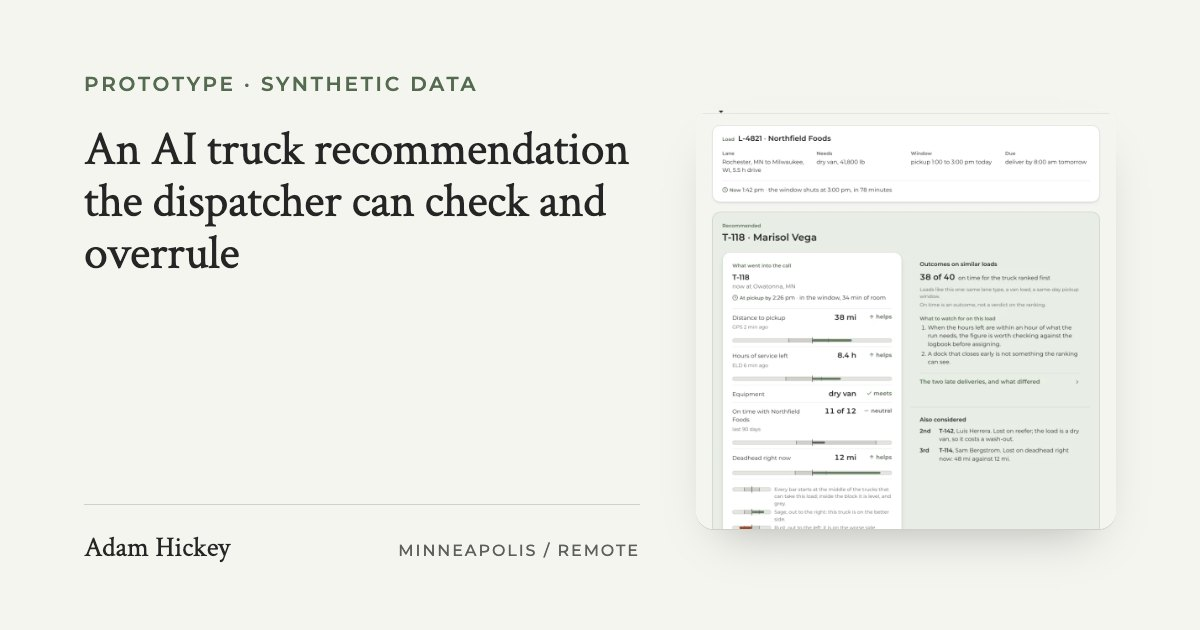
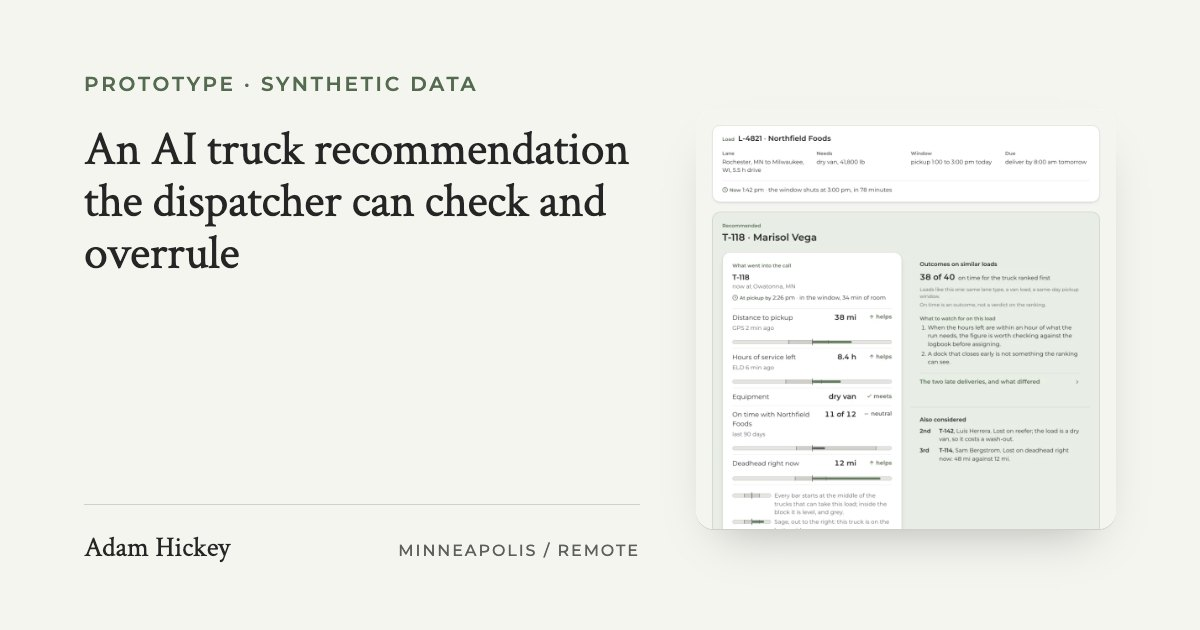
The cockpit's share card carries the bigger type, and stops cropping a caret into its corner
A sweep of every image on the site that is a RENDER of the cockpit,
after #266 changed the factor rows. One was out of date:
img/site/dispatch-cockpit.webp, which cockpit.mjs captures from the
live page and og.mjs frames into img/og/dispatch-cockpit.jpg. It shows
the load, the leader's factors and the record, so all five factor names
and every freshness line in it were the old sizes.

WHAT THE SWEEP FOUND ELSEWHERE, SO THE NEXT ONE DOES NOT REPEAT IT:

- The case studies carry no cockpit captures at all.
  case-study/dispatch-complexity.html is the Parcel work -- dispatcher
  screens, the driver modal, the map layout -- and its card is
  img/site/dispatch-floor.webp, a photograph. Nothing there renders
  this stylesheet.
- img/cockpit/assist-not-gate.webp and dispatcher-attention.webp are
  drawings, and the style spec keeps text out of the drawings, so a
  type change cannot reach them.
- img/site/dispatch-cockpit-close-call.webp is referenced by nothing.
- rule.webp and stale.webp are genuinely untouched, and this is now
  measured rather than reasoned: captured fresh from origin/main and
  fresh from this branch, the two are identical to the pixel -- 0 of
  445k and 0 of 920k differ. They are not re-encoded, because the
  committed files differ from a fresh capture by 29.83% and 7.82% of
  their pixels at glyph edges with nothing visibly moved, which is
  Chromium's text rendering between sessions rather than a change.
[…]

Changed region(s): [[0.5858, 0.4825, 0.74, 0.8444]]

diff --git a/prototype/dispatch-cockpit.html b/prototype/dispatch-cockpit.html
@@ -18,7 +18,7 @@
   <meta property="og:url" content="https://adamhickey.com/prototype/dispatch-cockpit.html" />
   <meta property="og:title" content="An AI truck recommendation the dispatcher can check and overrule | Adam Hickey" />
   <meta property="og:description" content="A self-directed prototype of an AI truck recommendation for freight dispatch, on synthetic data: the factors weighed and where each one stands, outcomes from similar loads instead of a confidence percentage, a one-click override that asks why afterwards, and the whole fleet always in reach." />
-  <meta property="og:image" content="https://adamhickey.com/img/og/dispatch-cockpit.jpg?v=12" />
+  <meta property="og:image" content="https://adamhickey.com/img/og/dispatch-cockpit.jpg?v=13" />
   <meta property="og:image:width" content="1200" />
   <meta property="og:image:height" content="630" />
   <meta name="twitter:card" content="summary_large_image" />
@@ -38,7 +38,7 @@
           "description": "A self-directed prototype of an AI truck recommendation for freight dispatch, on synthetic data: the factors weighed and where each one stands, outcomes from similar loads instead of a confidence percentage, a one-click override that asks why afterwards, and the whole fleet always in reach.",
           "url": "https://adamhickey.com/prototype/dispatch-cockpit.html",
           "mainEntityOfPage": "https://adamhickey.com/prototype/dispatch-cockpit.html",
-          "image": "https://adamhickey.com/img/og/dispatch-cockpit.jpg?v=12",
+          "image": "https://adamhickey.com/img/og/dispatch-cockpit.jpg?v=13",
           "datePublished": "2026-09-10",
           "dateModified": "2026-09-21",
           "author": {
